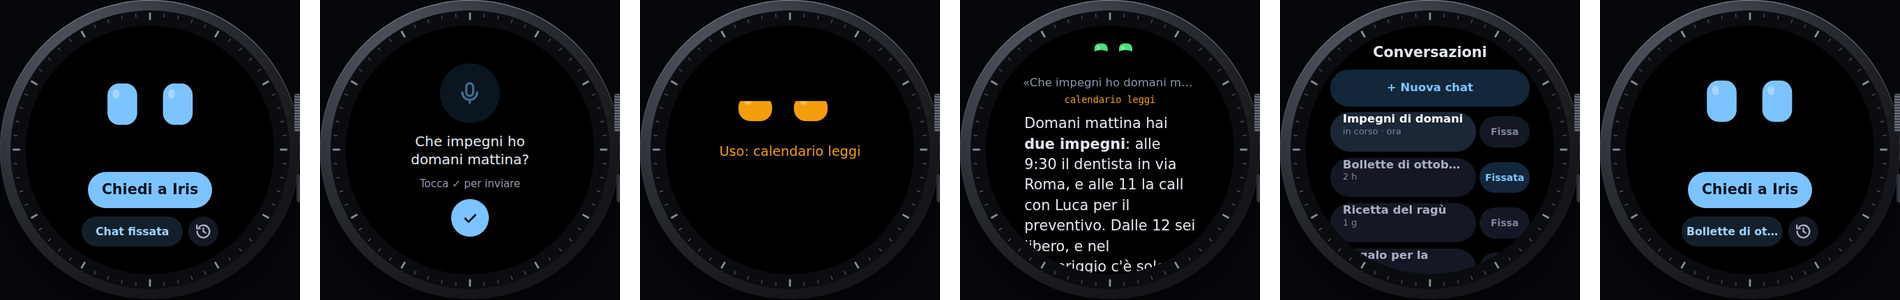
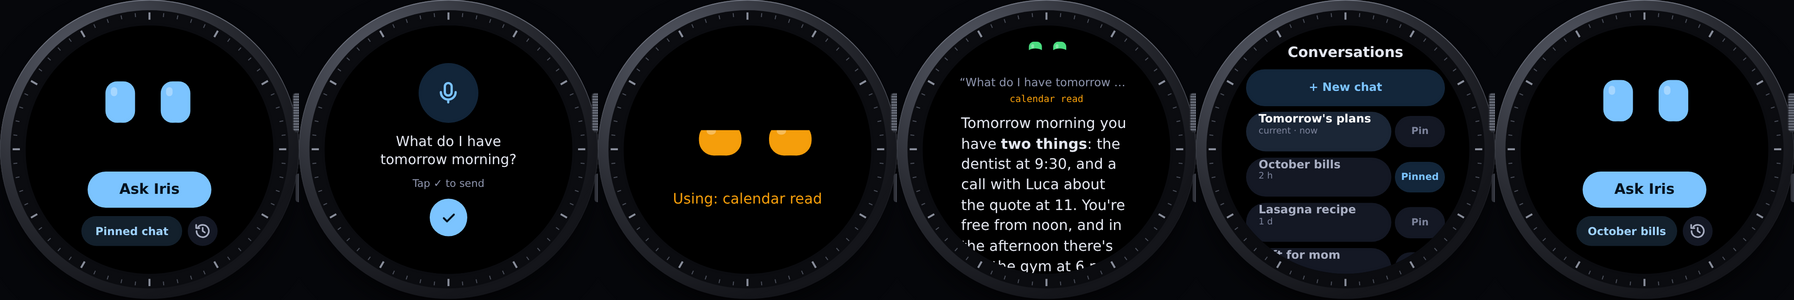
Install and Hermes setup guides in English and Italian; link the Iris Dial website
Claude-Session: https://claude.ai/code/session_01Nwax4AJoh9j8WWGX8eKyWD

diff --git a/site/index.html b/site/index.html
@@ -229,13 +229,14 @@
       </div>
       <div class="steps">
         <div class="step"><h3><span lang="en">Turn on Hermes' API server</span><span lang="it">Accendi l'API server di Hermes</span></h3>
-          <p><span lang="en">Iris talks to the API server built into Hermes Agent. The </span><span lang="it">Iris parla con l'API server di Hermes Agent. La </span><a href="https://github.com/Mark9712Seto/IrisNotch/blob/main/docs/hermes-setup.md"><span lang="en">setup guide</span><span lang="it">guida</span></a><span lang="en"> takes a couple of minutes.</span><span lang="it"> richiede un paio di minuti.</span></p></div>
+          <p><span lang="en">Iris talks to the API server built into Hermes Agent. The </span><span lang="it">Iris parla con l'API server di Hermes Agent. La </span><a href="https://github.com/Mark9712Seto/IrisNotch/blob/main/docs/hermes-setup.md"><span lang="en">setup guide</span></a><a lang="it" href="https://github.com/Mark9712Seto/IrisNotch/blob/main/docs/hermes-setup.it.md">guida</a><span lang="en"> takes a couple of minutes.</span><span lang="it"> richiede un paio di minuti.</span></p></div>
         <div class="step"><h3><span lang="en">Install Iris Notch</span><span lang="it">Installa Iris Notch</span></h3>
           <p><span lang="en">Download the installer from the </span><span lang="it">Scarica l'installer dall'</span><a href="https://github.com/Mark9712Seto/IrisNotch/releases/latest"><span lang="en">latest release</span><span lang="it">ultima versione</span></a><span lang="en">. It isn't code-signed yet, so SmartScreen will ask: More info → Run anyway.</span><span lang="it">. Non è ancora firmato, quindi SmartScreen chiede conferma: Ulteriori informazioni → Esegui comunque.</span></p></div>
         <div class="step"><h3><span lang="en">Connect and say hi</span><span lang="it">Collegala e salutala</span></h3>
           <p><span lang="en">The settings open on first start: enter the Hermes address and key, press Test, Save. Then hover the notch.</span><span lang="it">Al primo avvio si aprono le impostazioni: metti indirizzo e chiave di Hermes, premi Test e Salva. Poi passa sopra la tacca.</span></p></div>
       </div>
-      <p style="margin-top:22px;color:var(--muted)"><span lang="en">Requirements: Windows 10 or 11 and a Hermes Agent. A GPU makes local speech-to-text faster; the local voice works on any CPU. The interface is in Italian for now.</span><span lang="it">Requisiti: Windows 10 o 11 e un Hermes Agent. Una scheda video rende più veloce la trascrizione locale; la voce locale va su qualsiasi processore.</span></p>
+      <p style="margin-top:22px;color:var(--muted)"><span lang="en">Step-by-step guide: </span><span lang="it">Guida passo per passo: </span><a href="https://github.com/Mark9712Seto/IrisNotch/blob/main/docs/install.md">English</a> · <a href="https://github.com/Mark9712Seto/IrisNotch/blob/main/docs/installazione.md">Italiano</a>.
+        <span lang="en">Requirements: Windows 10 or 11 and a Hermes Agent. A GPU makes local speech-to-text faster; the local voice works on any CPU. The interface is in Italian for now.</span><span lang="it">Requisiti: Windows 10 o 11 e un Hermes Agent. Una scheda video rende più veloce la trascrizione locale; la voce locale va su qualsiasi processore.</span></p>
     </div>
   </section>
 
@@ -246,7 +247,7 @@
         <span class="eyebrow"><span lang="en">Also from Variety Project</span><span lang="it">Sempre da Variety Project</span></span>
         <h2 style="font-size:clamp(28px,4.4vw,42px);margin:12px 0 14px">Iris Dial</h2>
         <p style="color:var(--muted);font-size:17px"><span lang="en">The same eyes on your wrist. Iris Dial is a companion app for the Amazfit Balance 2 (Zepp OS): dictate a question, watch the eyes think, read the reply, and continue the chat — through your phone, straight to your own Hermes.</span><span lang="it">Gli stessi occhi al polso. Iris Dial è un'app per Amazfit Balance 2 (Zepp OS): detti una domanda, guardi gli occhi pensare, leggi la risposta e continui la chat, passando dal telefono, dritto al tuo Hermes.</span></p>
-        <div class="btns" style="margin-top:22px"><a class="btn" href="https://github.com/Mark9712Seto/IrisDial"><span lang="en">Iris Dial on GitHub →</span><span lang="it">Iris Dial su GitHub →</span></a></div>
+        <div class="btns" style="margin-top:22px"><a class="btn" href="https://mark9712seto.github.io/IrisDial/"><span lang="en">Discover Iris Dial →</span><span lang="it">Scopri Iris Dial →</span></a></div>
       </div>
       <img src="images/iris-dial.png" alt="Iris Dial on an Amazfit Balance 2" loading="lazy">
     </div>

diff --git a/docs/install.md b/docs/install.md
@@ -1,0 +1,129 @@
+# Installing and using Iris Notch (version 0.1.x)
+
+*[Leggi in italiano](installazione.md)*
+
+> The interface is in Italian for now. Labels below are given in Italian with their meaning in brackets.
+
+## 1. Download
+
+1. Open the repository's **Releases** page and pick the latest version.
+2. Download `Iris Notch_0.1.x_x64-setup.exe` (the number is the version; the bottom of the settings shows which one you have) and run it. It installs for your user only and doesn't ask for administrator rights.
+3. To try a build newer than the latest Release: **Actions** → the latest green **Build** run → at the bottom, under **Artifacts**, **Iris-Notch-Windows** (a zip with the installer and `iris-volto.exe`, the program on its own, no install needed).
+
+> ⚠ **Windows SmartScreen** will say "Windows protected your PC", because the program isn't code-signed. Click **More info → Run anyway**. This happens with every unsigned program; signing requires a paid certificate.
+
+It needs **WebView2**, which is already there on up-to-date Windows 10/11. If it's missing, the installer downloads it. Nothing else to install: no Python, no runtimes.
+
+**Where it keeps its files:** `%APPDATA%\Iris Notch` (settings, `logs\`, speech model, local voice). When you uninstall, Windows asks whether to delete the data too: tick it to start from scratch.
+
+## 2. First start
+
+The island appears at the top center of the screen and, until Hermes is configured, opens on the **Impostazioni** *(settings)*:
+
+| Field | What to enter |
+|---|---|
+| Indirizzo *(address)* | the address of Hermes' API server, e.g. `http://<hermes-host>:8642` |
+| Chiave API *(API key)* | the key you set in `API_SERVER_KEY` (see [hermes-setup.md](hermes-setup.md)) |
+
+Press **Test**, the button next to the key:
+
+- **Collegata · Hermes x.y** *(connected)*: all good;
+- **mancano: …** *(missing)*: your Hermes version is too old for sessions, approvals or states;
+- **401**: wrong key;
+- **non raggiungibile** *(unreachable)*: a firewall rule, or the API server isn't listening on the network.
+
+The key goes to the **Windows Credential Manager** (Control Panel → Credential Manager → Windows Credentials → `IrisVolto`), never to a file.
+
+## 3. Speech to text
+
+In the settings choose **Sul mio PC** *(on my PC)* or **Server Whisper**.
+
+**On my PC** (recommended):
+
+1. Pick the model:
+   - `large-v3-turbo`, 574 MB: the best for Italian, runs on the GPU;
+   - `small`, 190 MB: lighter.
+2. Press **Scarica** *(download)*. It's downloaded once, from Hugging Face.
+3. The model loads on first use (a few seconds) and leaves the GPU after the minutes you set, so it doesn't take memory away from games.
+
+The GPU is used through **Vulkan**, which comes with the graphics drivers: no need to install CUDA.
+
+**Whisper server**: the address of an OpenAI-compatible server (`/v1/audio/transcriptions`, e.g. speaches or faster-whisper-server) or of a `whisper.cpp server` (`/inference`).
+
+## 4. Talking
+
+- **Hold** `Ctrl+Alt+Space`, speak, release;
+- or click the **microphone** in the island, speak, click it again.
+
+**"Ho capito questo"** *(here's what I heard)* appears with editable text: fix it if needed and press **Invia** *(send)* or Enter. To skip the preview, turn on *Invia subito* *(send right away)*.
+
+## 5. Spoken replies
+
+- **Volume della voce** *(voice volume)*, at the top of *Testo → voce*: how loud Iris speaks (and the chime). It changes right away.
+- The **speaker** icon left of the text box turns automatic reading of replies on and off.
+- With *Suono di arrivo* *(arrival chime)* you hear a short sound when Iris starts answering.
+- Under each reply there's **Ascolta** *(listen)*, to hear it later even with reading off.
+
+Engines:
+
+- **On my PC (Piper)**: an Italian voice that runs on the **CPU**, so it works on modest PCs and needs no GPU. Downloaded on request, after you confirm: **about 85 MB** (program 22 MB + Paola voice 61 MB), into the app's folder.
+  - **Voices**: *Paola* (female, default) and *Riccardo* (male, lighter, 27 MB, downloaded when you pick it). **Prova voce** *(try voice)* next to the menu.
+  - Below the voice you see the speed of the last sentence: usually many times faster than speech (measured: 8× Paola, 15× Riccardo).
+  - **Spegni la voce dopo** *(turn the voice off after)*: if unused for that long, the engine closes and frees memory; it starts again by itself on the next sentence.
+- **Windows voice**: the installed voices. More can be added from Windows Settings → Time & language → Speech.
+- **TTS server**: an OpenAI-compatible server (`/v1/audio/speech`), e.g. Piper or Kokoro behind openedai-speech or Kokoro-FastAPI.
+
+## 6. Where the island lives and how it opens
+
+- **To move it**, press and drag. At the top of the screen it's a **notch**. Pull it down and it **pops off into a bubble** you can put anywhere, even on another monitor. Bring it back to the top and it's a notch again. When it's open, grab it by the eyes: it closes and comes with you. It stays where you leave it.
+- Settings → **Isola** *(island)*:
+  - **Si apre** *(opens)*: on hover (immediately, or after 0.6 / 1 / 1.5 / 2 seconds) or only on click;
+  - **Si richiude** *(closes)* 0.7–5 seconds after the mouse leaves; from 1 second up, a small bar counts down;
+  - **Occhi che seguono** *(eyes follow)* the mouse, can be turned off;
+  - **Rimettila al centro** *(put it back in the center)*.
+- Settings → **Generale** *(general)*: your **birthday** (day and month: confetti on that day), **Avvia con Windows** *(start with Windows)*, the **black frame** around the eyes (0–16 px) and the **size** of the whole app (Piccola / Normale / Grande: small, normal, large).
+- With the **pin** on and the island open, grabbing it by the eyes moves the whole open window.
+- Settings → **Debug e prove** *(debug and tests)*: debug mode (detailed log), **Mostra l'area** *(show the area where the eyes play)*, latest errors and the log folder.
+- Every option has a **?**: hover it to see what it does.
+- **Changes only apply when you press Salva** *(save)*. As soon as you change something, **Annulla** *(cancel)* appears and the island won't close by itself until you choose. Cancel, the **back arrow**, `Esc` or the **settings icon** again discard the changes and close.
+
+Poke the eyes 3 times in a row and it giggles; 7 times and it gets dizzy.
+
+**By time of day**, when you open the island (once per part of the day): dark circles in the dead of night, yawning very early, coffee in the morning, sometimes a stretch in the late afternoon, relaxed with a few stars in the evening.
+
+**The mouse** (with *Occhi che seguono*): its mood changes every 2–6 minutes, so sometimes it follows you closely and sometimes it barely cares. If the mouse flies across the screen it gets startled, and now and then dizzy. Leave the computer alone for 12 minutes and it takes a nap; the first mouse move wakes it up.
+
+**Animations.** Each state (listening, thinking, using a tool, speaking, done, approval, error, asleep) has a few versions, picked at random. **Surprise easter eggs** come on a random timer: the first 3–10 minutes after start, then every 5–40 minutes, never the same twice in a row, only while the island is closed and still.
+
+**Dates and events:** New Year, Epiphany, Valentine's Day, Carnival and Easter (computed every year), April Fools', Italian national days, spring, summer, autumn, Halloween, Christmas, Friday the 17th, full-moon nights, morning coffee, your birthday; and **around the world**: Lunar New Year, Holi and Diwali (lunar dates up to 2035), Pi Day, St. Patrick's Day, Hanami, Earth Day, Star Wars Day, July 4th, Bastille Day, Oktoberfest, Día de los Muertos, Thanksgiving. On those days, six times out of ten the surprise is the holiday's, and it greets you with it at start.
+
+**Your own animations.** Put `.json` files in `%APPDATA%\Iris Notch\animazioni` describing eyes and shapes at key moments: no code, so they're safe even if you download them. The folder has a **GUIDA.md** with every rule and measure (in Italian) and an example to copy. From *Debug e prove*: **Cartella** *(folder)*, **Ricarica** *(reload)* and **Prova le mie** *(try mine)*. Without dates they join the daily surprises; with `quando` they play on their days or hours.
+
+## 7. Sessions
+
+The title at the top opens the menu:
+
+- **Dall'isola** *(from the island)*: the latest conversations started here;
+- **Altre sessioni ▸** *(other sessions)*: all the others (Telegram, CLI, scheduled jobs), with search. Pick one to continue it there, with all its context;
+- **＋**: new conversation;
+- hovering a session shows three buttons:
+  - **pin**: keeps it at the top, under **Fissate** *(pinned)*, even if it's from Telegram or elsewhere. Saved by Hermes; with old Hermes versions the app remembers it;
+  - **pencil** (or **double-click the title** at the top): rename. The new name is saved on Hermes, so you see it everywhere;
+  - **bin**: deletes the session on Hermes, after a confirmation in the row. Can't be undone.
+
+## 8. Other useful things
+
+| | |
+|---|---|
+| `Ctrl+Alt+I` | opens and closes the island |
+| 📌 | keeps it open even when the mouse leaves |
+| `Esc` | closes settings, voice preview or the island |
+| Notification-area icon | *open / close the island* and **quit Iris Notch** (the app isn't on the taskbar) |
+| Start with Windows | in the settings, Generale section |
+| Updates | a green dot on the settings icon tells you when a new version is on GitHub: download and install it yourself |
+
+## Known issues
+
+- **Local transcription** has had little testing with real models so far. If it doesn't work, check **Debug e prove → Ultimi errori** *(latest errors)*.
+- **Shortcuts** are typed by hand in the settings (e.g. `Ctrl+Shift+K`). If another program already uses a shortcut, Windows won't assign it.
+- **If something goes wrong:** turn on **debug mode**, do it again and open an *issue* on GitHub with the **latest errors** attached (the log never contains your keys).

diff --git a/docs/installazione.md b/docs/installazione.md
@@ -1,12 +1,12 @@
 # Installare e usare Iris Notch (versione 0.1.x)
 
+*[Read in English](install.md)*
+
 ## 1. Scaricare il programma
 
-1. Apri il repository su GitHub → **Actions** → l'ultima esecuzione verde di **Build**.
-2. In fondo alla pagina, sotto **Artifacts**, scarica **Iris-Notch-Windows** (è uno zip).
-3. Dentro ci sono due file:
-   - `Iris Notch_0.1.x_x64-setup.exe`: l'installer (il numero cambia a ogni build: in fondo alle impostazioni vedi quale hai installato). Installa solo per il tuo utente, non chiede i permessi di amministratore;
-   - `iris-volto.exe`: il programma da solo, senza installazione, utile per una prova veloce.
+1. Apri la pagina delle **Release** del repository e scegli l'ultima versione.
+2. Scarica `Iris Notch_0.1.x_x64-setup.exe` (il numero è la versione: in fondo alle impostazioni vedi quale hai installato) e aprilo. Installa solo per il tuo utente, non chiede i permessi di amministratore.
+3. Per provare una build più nuova di una Release: **Actions** → l'ultima esecuzione verde di **Build** → in fondo, sotto **Artifacts**, **Iris-Notch-Windows** (uno zip con l'installer e `iris-volto.exe`, il programma da solo senza installazione).
 
 > ⚠ **Windows SmartScreen** mostrerà "Windows ha protetto il PC", perché il programma non è firmato. Clicca **Ulteriori informazioni → Esegui comunque**. Capita a tutti i programmi non firmati; firmarlo costa un certificato a pagamento.
 
@@ -21,7 +21,7 @@ L'isola compare in alto al centro dello schermo e, finché Hermes non è configu
 | Campo | Cosa mettere |
 |---|---|
 | Indirizzo | l'indirizzo dell'API server di Hermes, per esempio `http://<indirizzo-di-hermes>:8642` |
-| Chiave API | la chiave che hai messo in `API_SERVER_KEY` (vedi [hermes-setup.md](hermes-setup.md)) |
+| Chiave API | la chiave che hai messo in `API_SERVER_KEY` (vedi [hermes-setup.it.md](hermes-setup.it.md)) |
 
 Premi **Test**, il pulsante accanto alla chiave:
 
@@ -131,7 +131,7 @@ Il titolo in alto apre il menu:
 
 ## Problemi noti
 
-- **Trascinamento:** dalla 0.1.2 la finestra la muove il programma, per togliere le scie quando la bolla si trascina veloce o tra due schermi. Se vedi ancora artefatti, segnalalo con una foto.
+- **Trascinamento:** dalla 0.1.2 la finestra la muove il programma, per togliere le scie quando la bolla si trascina veloce o tra due schermi. Se vedi ancora artefatti, segnalalo aprendo una *issue* su GitHub, con una foto.
 - **Trascrizione locale:** finora provata poco con un modello vero. Se non va, guarda **Debug e prove → Ultimi errori**.
 - **Scorciatoie:** si scrivono a mano nelle impostazioni (per esempio `Ctrl+Shift+K`). Se una scorciatoia è già usata da un altro programma, Windows non la assegna.
-- **Se qualcosa non va:** accendi la **modalità debug**, rifai la cosa e mandami **Ultimi errori** (il log non contiene mai le chiavi).
+- **Se qualcosa non va:** accendi la **modalità debug**, rifai la cosa e apri una *issue* su GitHub allegando **Ultimi errori** (il log non contiene mai le chiavi).

diff --git a/README.md b/README.md
@@ -103,7 +103,9 @@ The [**live demo**](https://mark9712seto.github.io/IrisNotch/demo.html) runs the
 
 ## Install
 
-1. **Turn on Hermes' API server**: see [docs/hermes-setup.md](docs/hermes-setup.md).
+Full guide: [**docs/install.md**](docs/install.md) ([italiano](docs/installazione.md)). In short:
+
+1. **Turn on Hermes' API server**: see [docs/hermes-setup.md](docs/hermes-setup.md) ([italiano](docs/hermes-setup.it.md)).
 2. **Download the installer** from the [latest release](../../releases/latest) and run it. The app isn't code-signed yet, so Windows SmartScreen will warn you: **More info → Run anyway**.
 3. On first start the settings open: enter the Hermes address (for example `http://your-hermes-host:8642`) and the API key, press **Test**, then **Save**.
 
@@ -131,7 +133,7 @@ Full details in [PRIVACY.md](PRIVACY.md). To report a vulnerability, see [SECURI
 
 <img src="docs/images/iris-dial.png" alt="Iris Dial on an Amazfit Balance 2">
 
-The same eyes on your wrist. [**Iris Dial**](https://github.com/Mark9712Seto/IrisDial) is a companion app for the Amazfit Balance 2 (Zepp OS): dictate a question, watch the eyes think, read the reply, and continue the chat, through your phone, straight to your own Hermes.
+The same eyes on your wrist. [**Iris Dial**](https://mark9712seto.github.io/IrisDial/) ([GitHub](https://github.com/Mark9712Seto/IrisDial)) is a companion app for the Amazfit Balance 2 (Zepp OS): dictate a question, watch the eyes think, read the reply, and continue the chat, through your phone, straight to your own Hermes.
 
 ## Build from source
 
@@ -172,7 +174,7 @@ Free to **use, study, modify and share for any non-commercial purpose**, under t
 - **Riprendi** le sessioni nate altrove (Telegram, terminale…) e dai il **via libera** alle azioni, una volta o nega.
 - **Ha carattere**: più di 50 animazioni a sorpresa, feste di tutto il mondo, saluti secondo l'ora, e puoi aggiungerne di tue con un file JSON.
 
-[**Prova la demo**](https://mark9712seto.github.io/IrisNotch/demo.html) · [Sito](https://mark9712seto.github.io/IrisNotch/) · [Scarica](../../releases/latest) · [Guida all'installazione](docs/installazione.md)
+[**Prova la demo**](https://mark9712seto.github.io/IrisNotch/demo.html) · [Sito](https://mark9712seto.github.io/IrisNotch/) · [Scarica](../../releases/latest) · [Guida all'installazione](docs/installazione.md) · [Accendere l'API server di Hermes](docs/hermes-setup.it.md)
 
 **Privacy**: niente account, statistiche o pubblicità; le chiavi stanno nel Gestore credenziali di Windows; le conversazioni vanno solo al tuo server Hermes. Dettagli in [PRIVACY.md](PRIVACY.md).
 

diff --git a/docs/hermes-setup.it.md b/docs/hermes-setup.it.md
@@ -1,0 +1,53 @@
+# Accendere l'API server di Hermes
+
+*[Read in English](hermes-setup.md)*
+
+Iris parla con Hermes attraverso il suo **API server** (porta predefinita `8642`). Si fa una volta sola, sulla macchina dove gira Hermes.
+
+## 1. Aggiungi una chiave nel `.env` di Hermes
+
+Hermes accende da solo l'API server quando c'è `API_SERVER_KEY`, di almeno 16 caratteri. I valori in `~/.hermes/.env` hanno la precedenza su `config.yaml`, quindi `config.yaml` non va toccato.
+
+Lancia questo sulla macchina di Hermes (con l'utente che fa girare Hermes):
+
+```bash
+bash <<'END'
+set -e
+cd ~/.hermes
+[ -e ".env.bak-$(date +%F)" ] || cp .env ".env.bak-$(date +%F)"
+sed -i '/^API_SERVER_\(ENABLED\|HOST\|PORT\|KEY\)=/d' .env
+[ -z "$(tail -c1 .env)" ] || echo >> .env
+KEY=$(python3 -c 'import secrets; print(secrets.token_hex(32))')
+printf 'API_SERVER_ENABLED=true\nAPI_SERVER_HOST=0.0.0.0\nAPI_SERVER_PORT=8642\nAPI_SERVER_KEY=%s\n' "$KEY" >> .env
+echo "Chiave per Iris (copiala adesso): $KEY"
+END
+```
+
+Poi riavvia il gateway, per esempio `systemctl restart hermes-gateway`, o come riavvii Hermes di solito.
+
+`API_SERVER_HOST=0.0.0.0` fa ascoltare l'API server sulla rete. Con il firewall lascia arrivare alla porta 8642 **solo i PC dove gira Iris**.
+
+## 2. Controlla
+
+```bash
+curl -s http://127.0.0.1:8642/health
+curl -s -H "Authorization: Bearer <chiave>" http://127.0.0.1:8642/v1/capabilities
+```
+
+In `capabilities` → `endpoints` servono `runs`, `run_events`, `run_approval`, `sessions`, `session_create` e `session_messages`. Se ne manca qualcuno, aggiorna Hermes.
+
+## 3. Collega Iris
+
+Apri le impostazioni dell'isola e metti l'indirizzo (`http://<indirizzo-di-hermes>:8642`) e la chiave. Poi premi **Test**.
+
+## Strumenti disponibili dall'isola
+
+L'API server ha un suo elenco di strumenti (`hermes-api-server`), separato da quello di Telegram e delle altre piattaforme. Se una cosa funziona su Telegram ma non dall'isola, aggiungi il toolset che manca in `platform_toolsets.api_server` dentro `config.yaml`.
+
+## Tornare indietro
+
+```bash
+sed -i '/^API_SERVER_/d' ~/.hermes/.env
+```
+
+Poi riavvia il gateway.

diff --git a/docs/hermes-setup.md b/docs/hermes-setup.md
@@ -1,5 +1,7 @@
 # Turning on the Hermes API server
 
+*[Leggi in italiano](hermes-setup.it.md)*
+
 Iris talks to Hermes through its **API server** (default port `8642`). You do this once, on the machine where Hermes runs.
 
 ## 1. Add a key to Hermes' `.env`
